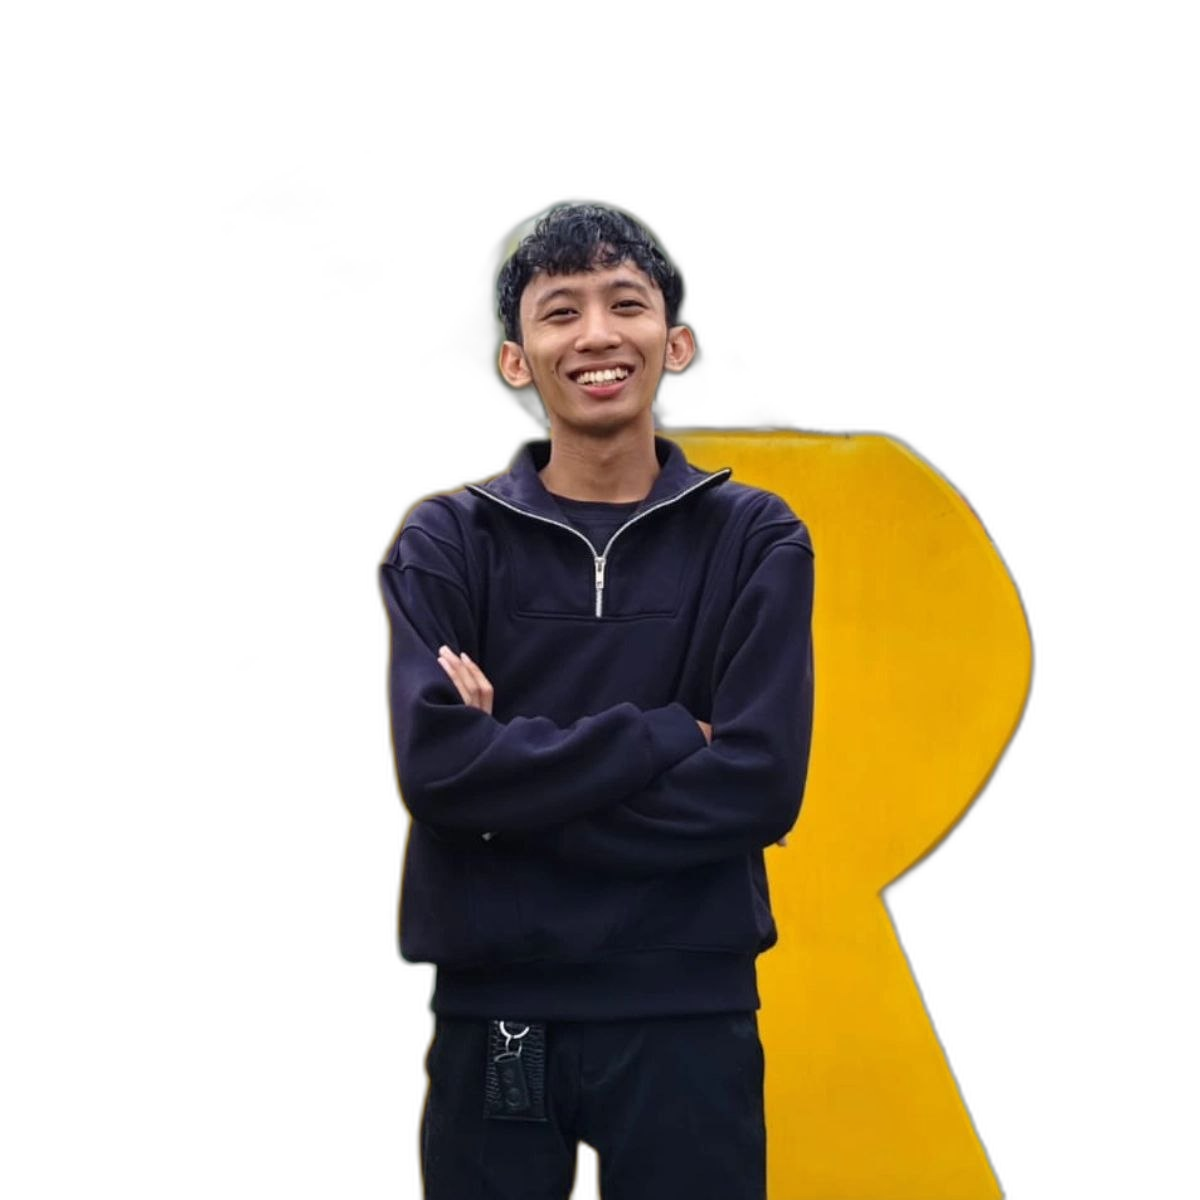
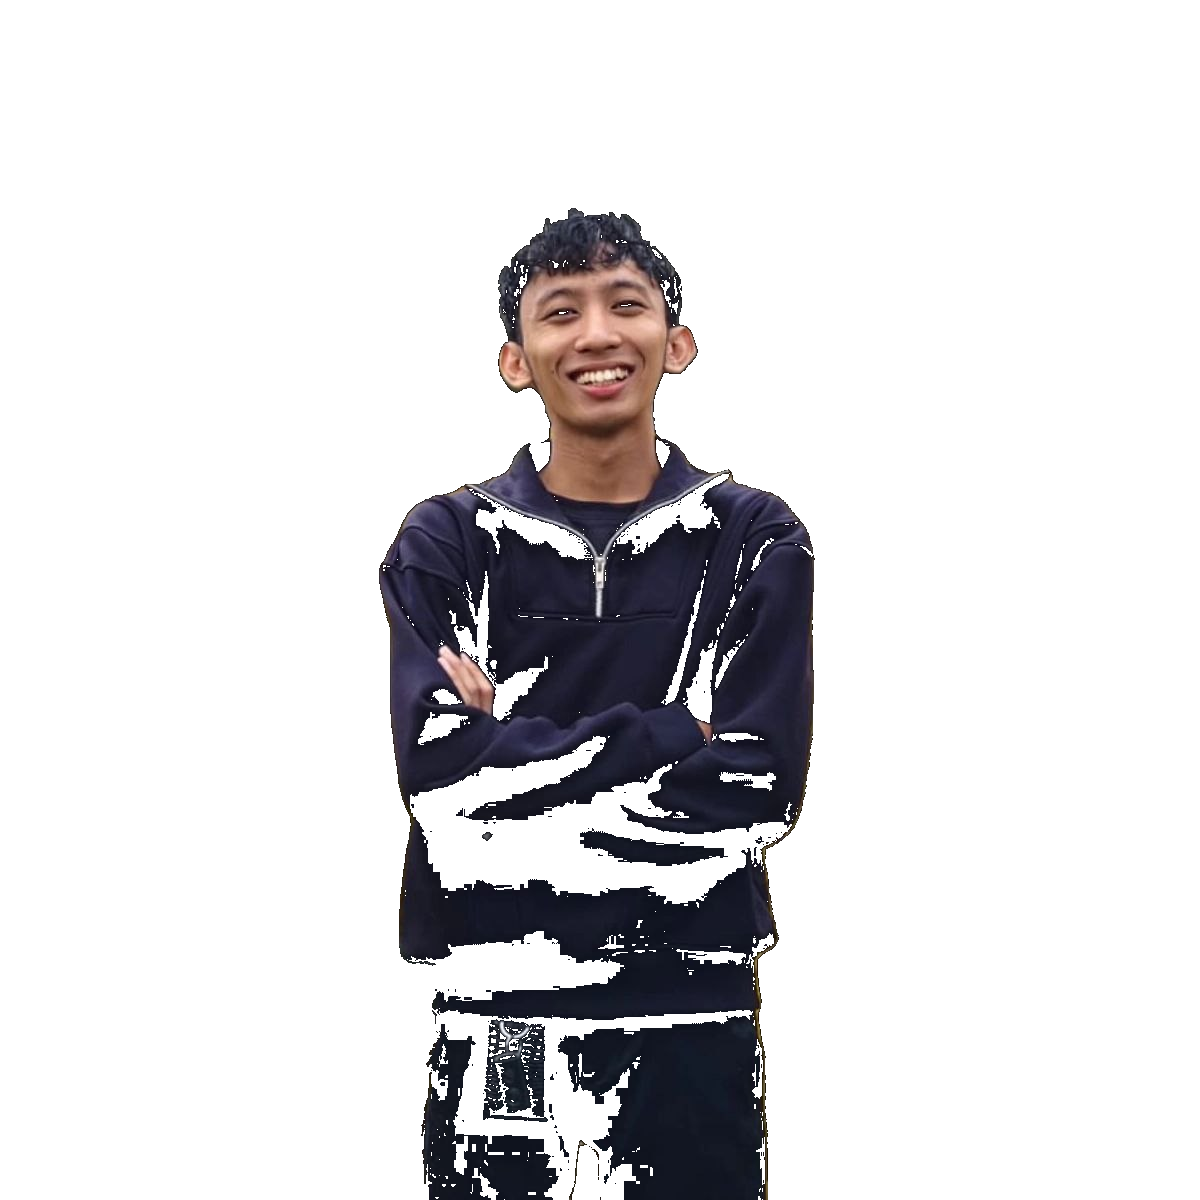
Update profile photo

diff --git a/README.md b/README.md
@@ -1,18 +1,16 @@
 <!-- Generated by GitHub Profile Agent Console. Edit profile.config.json, then run npm run generate. -->
 <p align="center">
   <picture>
-    <source media="(max-width: 760px) and (prefers-color-scheme: dark)" srcset="./assets/hero/agent-console-d3a7a464-mobile-dark.svg">
-    <source media="(max-width: 760px)" srcset="./assets/hero/agent-console-d3a7a464-mobile-light.svg">
-    <source media="(prefers-color-scheme: dark)" srcset="./assets/hero/agent-console-d3a7a464-dark.svg">
-    <source media="(prefers-color-scheme: light)" srcset="./assets/hero/agent-console-d3a7a464-light.svg">
-    <img src="./assets/hero/agent-console-d3a7a464-dark.svg" alt="Rendika Adji Putra - Full-Stack Dev | Laravel • Flutter • Python" width="100%">
+    <source media="(max-width: 760px) and (prefers-color-scheme: dark)" srcset="./assets/hero/agent-console-f6e3bb70-mobile-dark.svg">
+    <source media="(max-width: 760px)" srcset="./assets/hero/agent-console-f6e3bb70-mobile-light.svg">
+    <source media="(prefers-color-scheme: dark)" srcset="./assets/hero/agent-console-f6e3bb70-dark.svg">
+    <source media="(prefers-color-scheme: light)" srcset="./assets/hero/agent-console-f6e3bb70-light.svg">
+    <img src="./assets/hero/agent-console-f6e3bb70-dark.svg" alt="Rendika Adji Putra - Full-Stack Dev | Laravel • Flutter • Python" width="100%">
   </picture>
 </p>
 
 <p align="center">
   <a href="https://github.com/rendikaadji"><img alt="GitHub" src="https://img.shields.io/badge/GitHub-rendikaadji-0B1220?style=for-the-badge&logo=github&logoColor=white"></a>
-  <a href="https://www.linkedin.com/in/rendika-adji-putra-124815379/"><img alt="LinkedIn" src="https://img.shields.io/badge/LinkedIn-Rendika%20Adji%20Putra-0A66C2?style=for-the-badge&logo=linkedin&logoColor=white"></a>
-  <a href="https://instagram.com/rendikaadji.py"><img alt="Instagram" src="https://img.shields.io/badge/Instagram-rendikaadji.py-E4405F?style=for-the-badge&logo=instagram&logoColor=white"></a>
 </p>
 
 ## About Me
